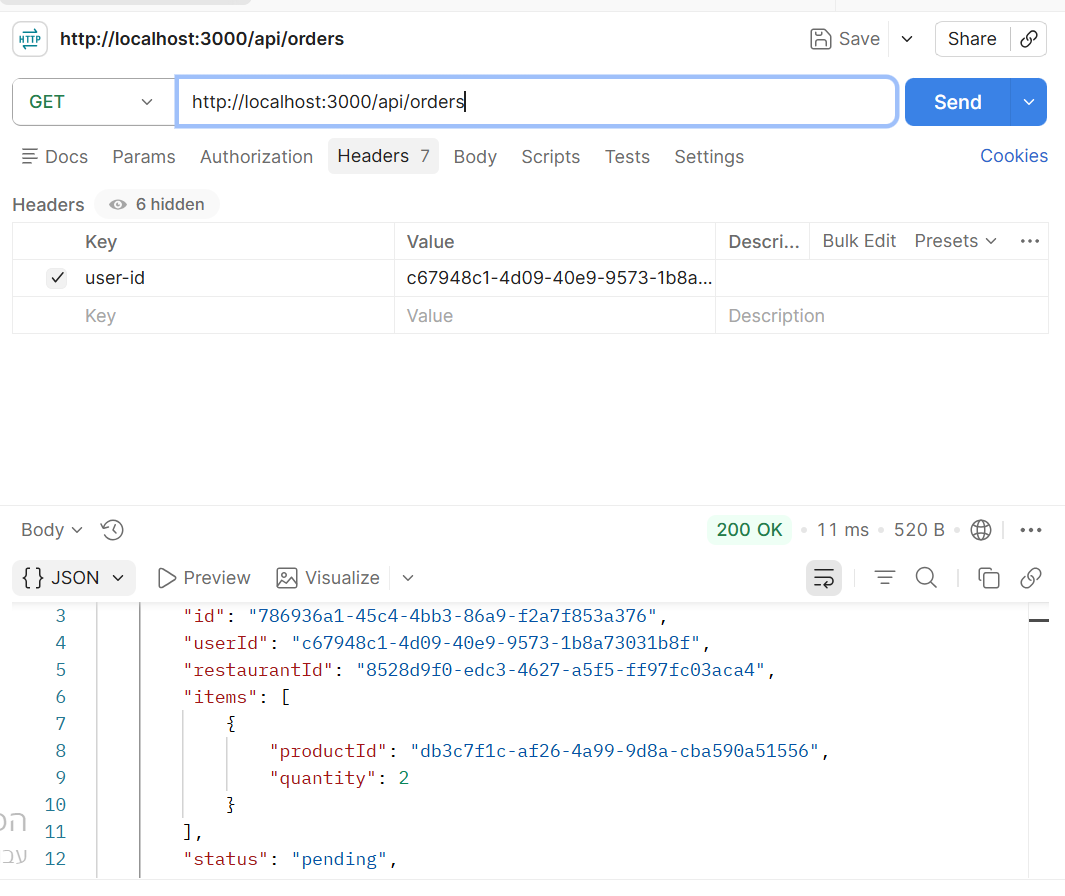
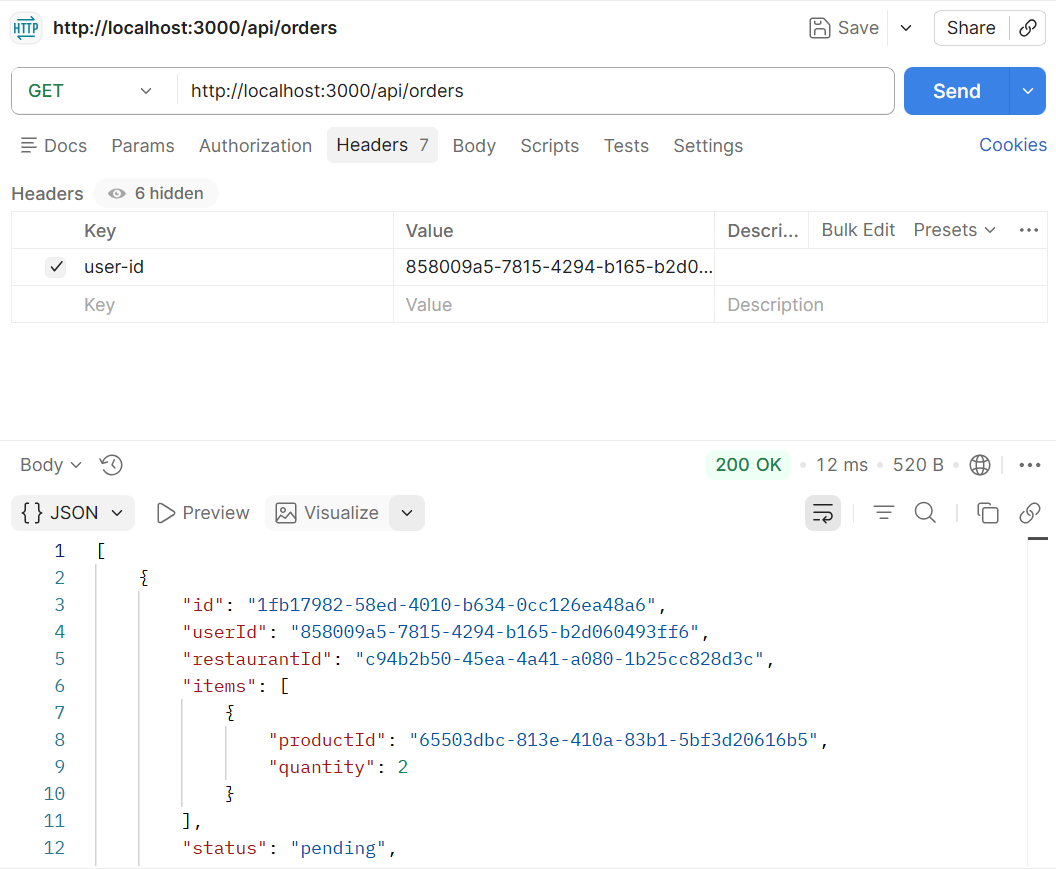
adding images for explantion in readme

diff --git a/models/userModel.js b/models/userModel.js
@@ -1,4 +1,3 @@
-//import { IdGenerator } from '../idMapper.js';
 import { v4 as uuidv4 } from 'uuid';
 // In-memory data store for volatile user records
 const users = [];

diff --git a/README.md b/README.md
@@ -148,17 +148,18 @@ The application accepts the following REST API endpoints. All data is returned i
    ![Get User Order History](images_readme/orders-GET.png)
 
 **GET `/api/orders/:id`**: Resolves the exact checkout details and cost pricing breakdown belonging to a single unique order ID:
-   ![Get Order Receipt Details](images_readme/get_order_details.png)
+   ![Get Order Receipt Details](images_readme/orders-ID-GET.png)
 
 **PATCH `/api/orders/:id`**: Alters current order milestones or changes delivery staging states:
-   ![Update Order Status](images_readme/update_order.png)
+   ![Update Order Status](images_readme/orders-ID-PATCH.png)
 
 **DELETE `/api/orders/:id`**: Revokes and completely removes an existing client order record from log memory:
-   ![Delete Order Record](images_readme/delete_order.png)
+   ![Delete Order Record](images_readme/orders-DELETE1.png)
+   ![Delete Order Record](images_readme/orders-DELETE2.png)
 
 ---
 
 ### Search
 
 **GET `/api/search/:query`**: Queries database text to parse matches, matching strings against names and descriptions:
-   ![Search Query Results](images_readme/search_query.png)
+   ![Search Query Results](images_readme/search-GET.png)
